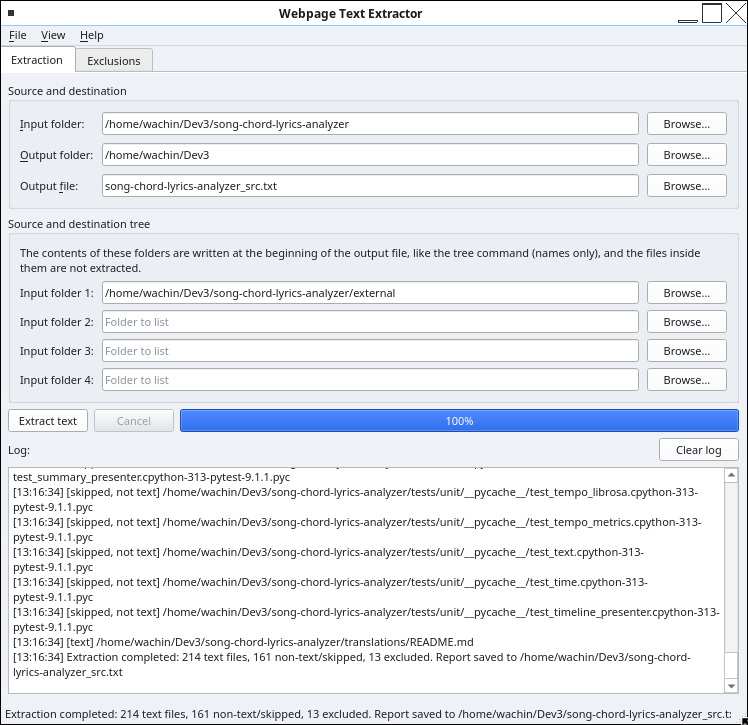
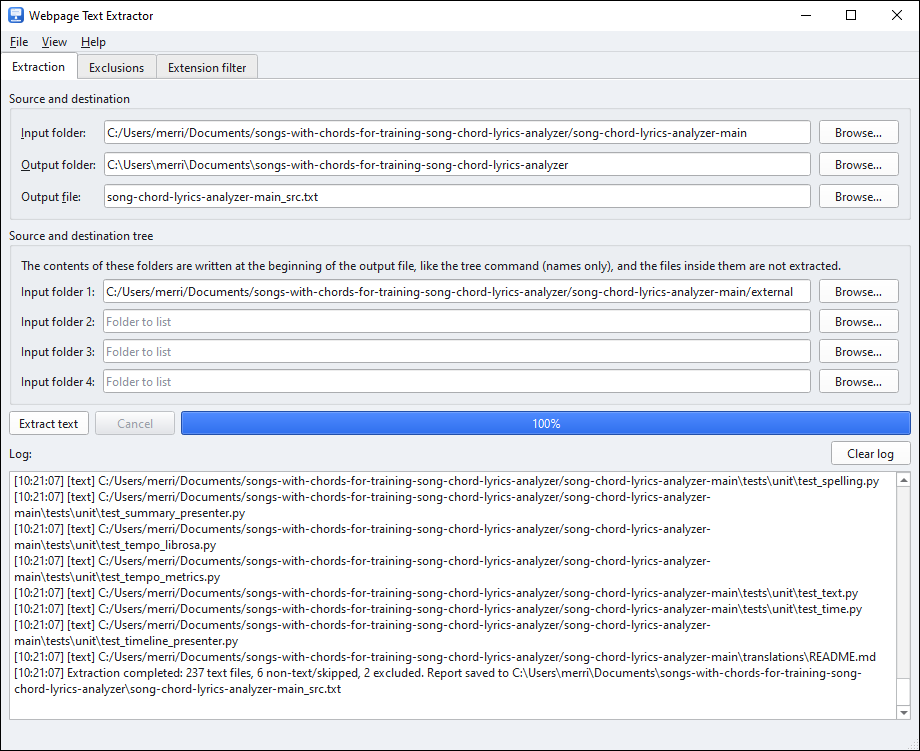
Improve extension filter tab and refresh screenshots
- Let the filter rules table expand to fill the third tab
- Document how to run the GUI in another language with LANG
- Add the extension filter tab screenshot and refresh the existing screenshots

diff --git a/extract_text_gui.py b/extract_text_gui.py
@@ -1168,8 +1168,8 @@ class MainWindow(QMainWindow):
         filter_header.setSectionResizeMode(
             1, QHeaderView.ResizeMode.ResizeToContents
         )
-        self.filter_table.setMinimumHeight(170)
-        filter_layout.addWidget(self.filter_table)
+        self.filter_table.setMinimumHeight(220)
+        filter_layout.addWidget(self.filter_table, 1)
 
         filter_buttons = QHBoxLayout()
         self.add_filter_button = QPushButton(self.tr("Add rule"))
@@ -1206,11 +1206,10 @@ class MainWindow(QMainWindow):
         filter_layout.addLayout(filter_buttons)
 
         filter_group.setLayout(filter_layout)
-        layout.addWidget(filter_group)
+        layout.addWidget(filter_group, 1)
 
         self._add_filter_rules(DEFAULT_EXTENSION_RULES)
 
-        layout.addStretch(1)
         scroll.setWidget(content)
         return scroll
 

diff --git a/README_ES.md b/README_ES.md
@@ -87,6 +87,35 @@ El proyecto también incluye una interfaz gráfica multiplataforma (Windows, Lin
 python extract_text_gui.py
 ```
 
+### Ejecutar la interfaz en otro idioma
+
+La interfaz carga automáticamente la traducción que coincide con el idioma del
+sistema. Para abrirla en inglés sin cambiar la configuración del sistema,
+define `LANG` solo para esa sesión de terminal:
+
+**PowerShell (Windows):**
+
+```powershell
+$env:LANG='en_US.UTF-8'; python .\extract_text_gui.py
+```
+
+**cmd.exe (Windows):**
+
+```bat
+set LANG=en_US.UTF-8 && python extract_text_gui.py
+```
+
+**Linux/macOS:**
+
+```bash
+LANG=en_US.UTF-8 python extract_text_gui.py
+```
+
+Solo afecta a la sesión de terminal actual. En PowerShell, ejecuta
+`Remove-Item Env:LANG` para recuperar el idioma anterior. El mismo método
+funciona con cualquier idioma disponible, por ejemplo `es_ES.UTF-8` para
+español.
+
 ### Características
 
 - **Pestaña Extracción**: selectores de carpeta de entrada, carpeta de salida y archivo de salida, con barra de progreso y registro de ejecución.
@@ -97,6 +126,9 @@ python extract_text_gui.py
   - **Ignorar por completo** — el archivo no aparece en el informe.
 
   Las reglas de nombre exacto tienen prioridad sobre las de extensión, y gana la extensión más larga (`.min.js` sobre `.js`); una regla posterior sustituye a otra anterior con el mismo patrón. Las reglas se guardan entre sesiones. Las reglas predeterminadas dejan como *Solo mencionar* `.svg`, `.map`, `.min.js`, `.min.css`, archivos de bloqueo, `package-lock.json`, `npm-shrinkwrap.json`, `pnpm-lock.yaml` y `go.sum`; **Agregar reglas comunes** las restaura y **Borrar todas las reglas** las elimina. Elegir *Extraer contenido* también anula la detección integrada de binarios, así que puedes incluir el código de un SVG si de verdad lo necesitas.
+
+  ![Pestaña Filtro por extensión de la interfaz gráfica](images/03-Extension-filter.png)
+
 - **Ayuda → Acerca de**: diálogo de información para el desarrollador — icono del programa a la izquierda, texto a la derecha — con enlace de correo y enlace web clicables (abren el cliente de correo y el navegador predeterminados).
 - **Temas claro y oscuro**: _Ver → Tema_.
 - **Multiplataforma**: funciona en Windows, Linux y macOS; el estilo `Fusion` garantiza el mismo aspecto y temas funcionales en todos.

diff --git a/README.md b/README.md
@@ -154,6 +154,34 @@ The project also includes a multi-platform GUI (Windows, Linux and macOS): [`ext
 python extract_text_gui.py
 ```
 
+### Run the interface in another language
+
+The GUI automatically loads the translation that matches the system language.
+To run it in English without changing the system settings, set `LANG` for that
+terminal session only:
+
+**PowerShell (Windows):**
+
+```powershell
+$env:LANG='en_US.UTF-8'; python .\extract_text_gui.py
+```
+
+**cmd.exe (Windows):**
+
+```bat
+set LANG=en_US.UTF-8 && python extract_text_gui.py
+```
+
+**Linux/macOS:**
+
+```bash
+LANG=en_US.UTF-8 python extract_text_gui.py
+```
+
+Only the current terminal session is affected. In PowerShell, run
+`Remove-Item Env:LANG` to restore the previous language. The same approach works
+with any available locale, for example `es_ES.UTF-8` for Spanish.
+
 ![](images/01-webpage-text-extractor.png)
 
 
@@ -167,6 +195,9 @@ python extract_text_gui.py
   - **Ignore completely** — the file does not appear in the report at all.
 
   Exact file-name rules win over suffix rules, and the longest suffix wins (`.min.js` over `.js`); a later rule overrides an earlier rule with the same pattern. Rules are stored between sessions. The default rules keep `.svg`, `.map`, `.min.js`, `.min.css`, lock files, `package-lock.json`, `npm-shrinkwrap.json`, `pnpm-lock.yaml` and `go.sum` as *Mention only*; **Add common rules** restores them and **Clear all rules** removes them. Choosing *Extract content* also overrides the built-in binary detection, so you can include an SVG's code if you really need it.
+
+  ![Extension filter tab of the graphical interface](images/03-Extension-filter.png)
+
 - **Help → About**: developer information dialog — program icon on the left, text on the right — with a clickable email link (opens your default email client) and website link (opens your default browser).
 - **Light and dark themes**: _View → Theme_.
 - **Multiplatform**: runs on Windows, Linux and macOS; the `Fusion` style guarantees the same look and working themes everywhere.
